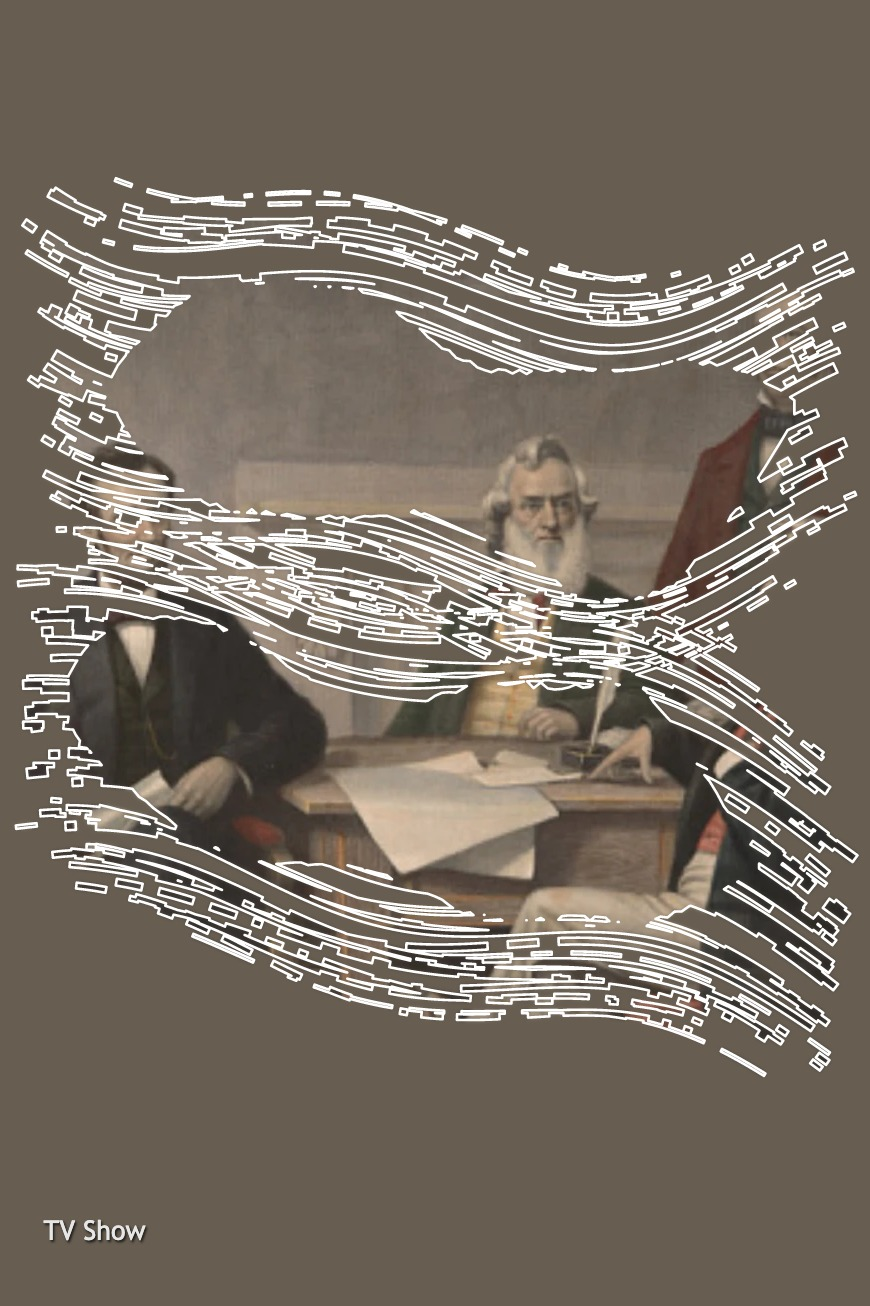
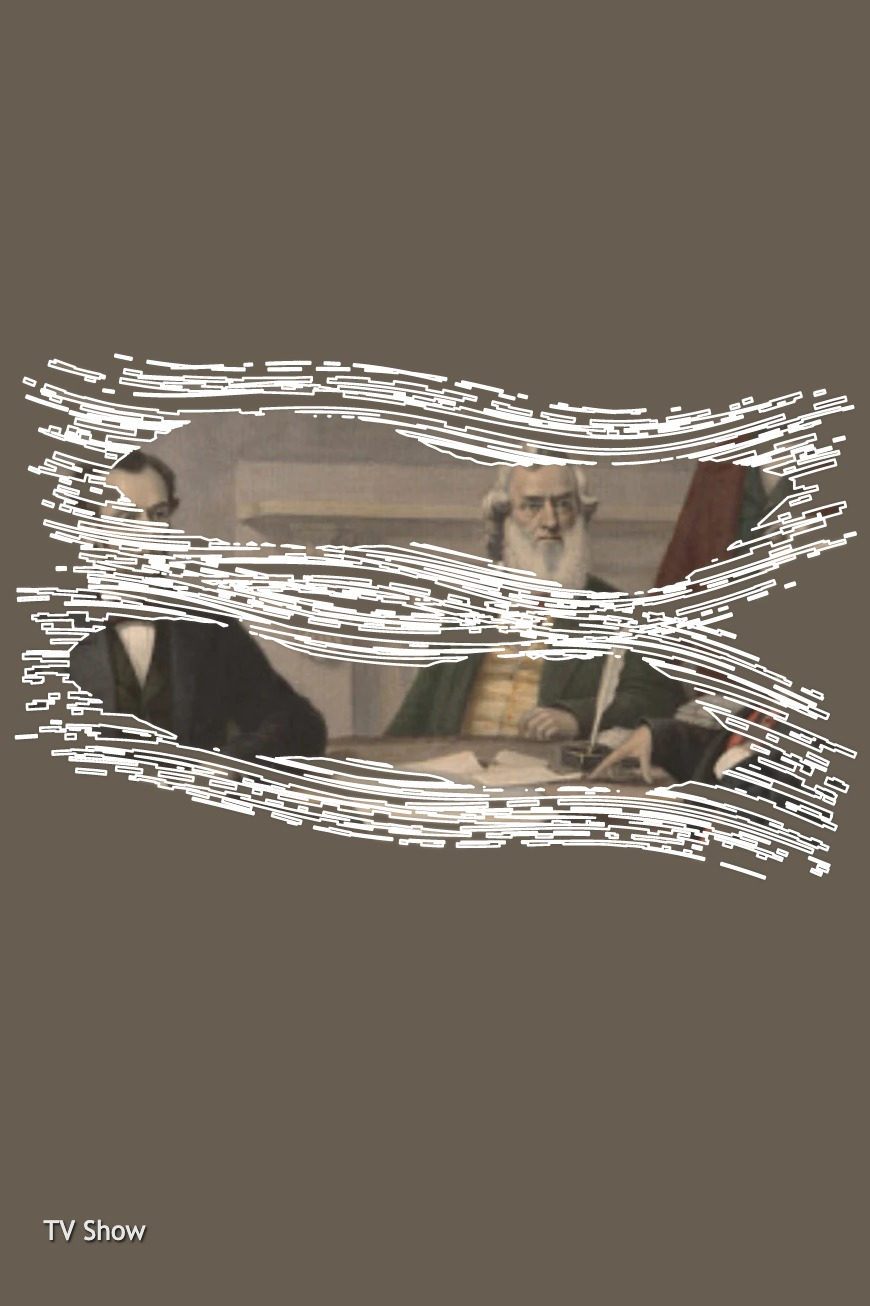
Cap a brush stroke's height against its own length so tall posters get painted sweeps instead of a cross.

Changed region(s): [[0.0, 0.1225, 0.9931, 0.827]]

diff --git a/Jellyfin.Plugin.EpisodePosterGenerator/Utilities/BrushStrokeBuilder.cs b/Jellyfin.Plugin.EpisodePosterGenerator/Utilities/BrushStrokeBuilder.cs
@@ -6,6 +6,10 @@ namespace Jellyfin.Plugin.EpisodePosterGenerator.Utilities
 {
     public class BrushStrokeBuilder
     {
+        // The tallest a stroke may be relative to its own length. A brush stroke reads as a stroke
+        // only while it is far longer than it is thick; past this it reads as a blob.
+        private const float MaxHeightToLengthRatio = 0.28f;
+
         private readonly Random _random;
 
         public BrushStrokeBuilder(int seed)
@@ -17,14 +21,14 @@ namespace Jellyfin.Plugin.EpisodePosterGenerator.Utilities
         // Builds the stroke geometry. Exactly one SKPath is returned; any other path allocated
         // along the way is released, including when stroke building or Simplify throws part way
         // through — these are native handles, so they cannot be left to the success path alone.
-        public SKPath BuildStrokePath(SKRect bounds, SKRect textArea, float canvasHeight)
+        public SKPath BuildStrokePath(SKRect bounds, SKRect textArea, float unit)
         {
             SKPath? combined = new SKPath { FillType = SKPathFillType.Winding };
             SKPath? simplified = null;
 
             try
             {
-                return BuildStrokePathCore(bounds, textArea, canvasHeight, ref combined, ref simplified);
+                return BuildStrokePathCore(bounds, textArea, unit, ref combined, ref simplified);
             }
             finally
             {
@@ -36,7 +40,7 @@ namespace Jellyfin.Plugin.EpisodePosterGenerator.Utilities
         // BuildStrokePathCore
         // Hands ownership of whichever path it returns back to the caller by nulling the
         // corresponding ref, so the caller's finally disposes only the one left behind.
-        private SKPath BuildStrokePathCore(SKRect bounds, SKRect textArea, float canvasHeight, ref SKPath? combined, ref SKPath? simplified)
+        private SKPath BuildStrokePathCore(SKRect bounds, SKRect textArea, float unit, ref SKPath? combined, ref SKPath? simplified)
         {
             var working = combined!;
 
@@ -53,11 +57,19 @@ namespace Jellyfin.Plugin.EpisodePosterGenerator.Utilities
             float usableHeight = usableBottom - usableTop;
 
             int strokeCount = _random.Next(2) == 0 ? 2 : 3;
-            float perStrokeHeight = strokeCount == 2 ? canvasHeight * 0.48f : canvasHeight * 0.38f;
+            float perStrokeHeight = strokeCount == 2 ? unit * 0.48f : unit * 0.38f;
 
-            // Per-gap spacing ranges from 5% canvas overlap to 5% canvas gap (signed).
+            // A stroke's height comes from the short side, but its length is always the width. On a
+            // tall poster that leaves each stroke half as tall as it is long, so the stack cannot
+            // fit and the tilt turns it into a cross. Capping the height against the stroke's own
+            // length keeps the painted proportion in both shapes. On a wide poster the cap is never
+            // reached, so landscape output is unchanged, and the cap consumes no random numbers, so
+            // the stroke layout for a given item is untouched there.
+            perStrokeHeight = MathF.Min(perStrokeHeight, bounds.Width * 1.08f * MaxHeightToLengthRatio);
+
+            // Per-gap spacing ranges from 5% of the short side in overlap to the same in gap (signed).
             // If the resulting stack would exceed the usable area, force more overlap.
-            float desiredOverlap = ((float)_random.NextDouble() * 2f - 1f) * canvasHeight * 0.05f;
+            float desiredOverlap = ((float)_random.NextDouble() * 2f - 1f) * unit * 0.05f;
             float minOverlap = (strokeCount * perStrokeHeight - usableHeight) / (strokeCount - 1);
             float overlap = MathF.Max(desiredOverlap, minOverlap);
 
